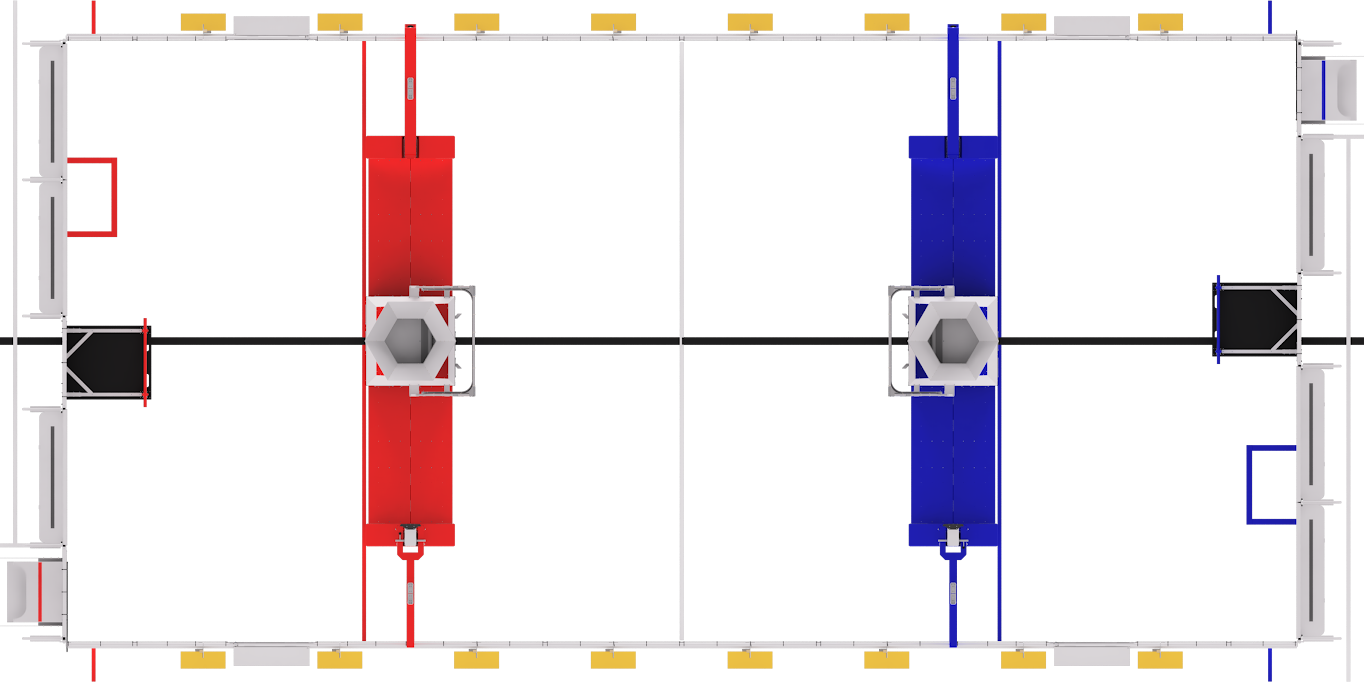
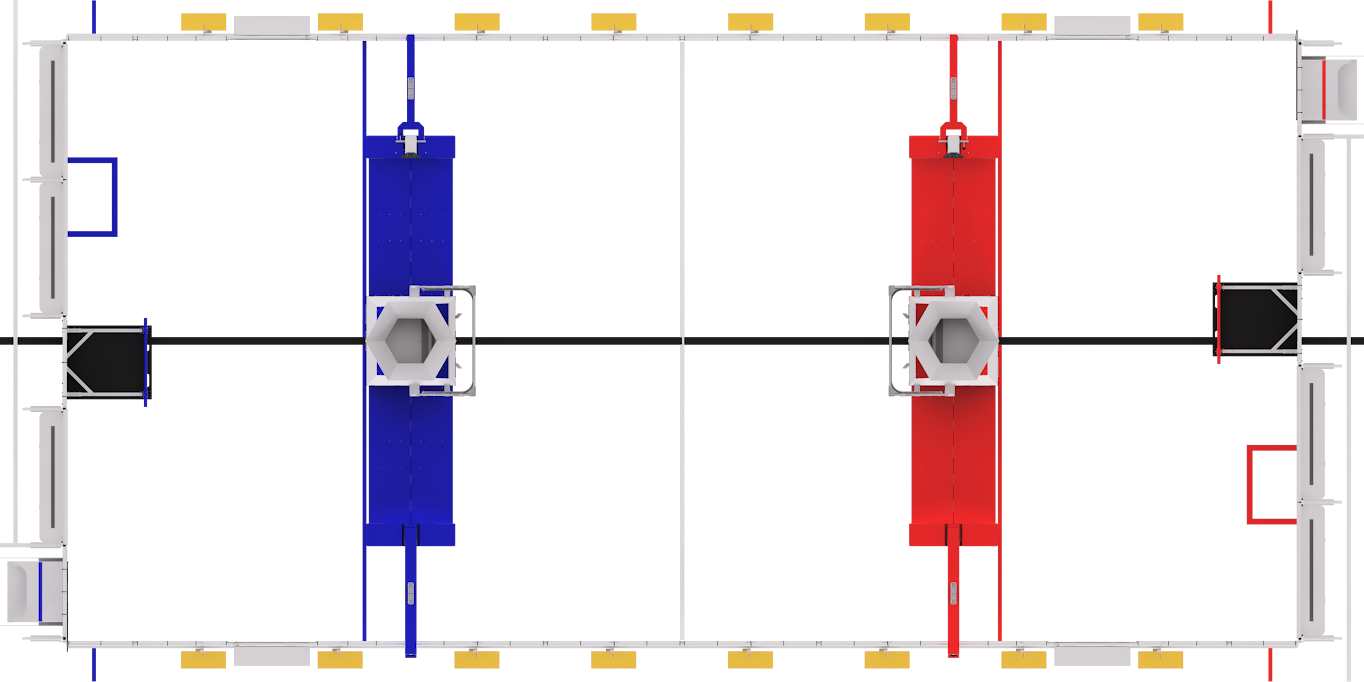
working homography matrix calculation

diff --git a/main.py b/main.py
@@ -8,7 +8,7 @@ try:
     from PyQt6.QtCore import Qt, QPoint
     from yt_dlp import YoutubeDL
     import pytesseract
-    from numpy import ndarray
+    import numpy as np
     from pathlib import Path
     import tkinter as tk
     from tkinter import filedialog
@@ -37,12 +37,14 @@ ydl_opts = {
     'logger': None
 }
 
-homography_points = []
+homography_stream_points = []
+homography_field_points = []
 homography_matrix = None
-homography_mask = None
-current_status = "yt" #can be "yt", "homography", "start"
+current_status = "yt" #can be "yt", "homography points", "calculate homography", "start"
 
 field_image = None
+field_image_w = 0
+field_image_h = 0
 
 def load_model():
     global model_loaded, model_path, model
@@ -58,7 +60,7 @@ load_model()
 
 
 def load_yt():
-    global video_direct_url, cap, yt_vid_name, yt_is_live, yt_loaded, yt_width, yt_height, field_image
+    global video_direct_url, cap, yt_vid_name, yt_is_live, yt_loaded, yt_width, yt_height, field_image, field_image_w, field_image_h
     try:
         with YoutubeDL(ydl_opts) as ydl:
             info_dict = ydl.extract_info(yt_url, download=False)
@@ -75,7 +77,12 @@ def load_yt():
             else:
                 video_direct_url = info_dict['formats'][0]['url']
 
-            field_image = cv2.imread(f"{int(info_dict['upload_date'][:4])}.png")
+            release_year = int(info_dict['upload_date'][:4])
+            if release_year >= 2024:
+                field_image = cv2.imread(f"{release_year}.png")
+            else:
+                field_image = cv2.imread('2026.png')
+            field_image_h, field_image_w = field_image.shape[:2]
             if field_image is None:
                 print(f"Error: Could not open {int(info_dict['upload_date'][:4])}.png")
             cap = cv2.VideoCapture(video_direct_url)
@@ -84,6 +91,7 @@ def load_yt():
                 yt_loaded = False
             else:
                 window.display_current_frame()
+                window.update_field_canvas()
                 yt_loaded = True
     except Exception as e:
         print(f'Error: {e}')
@@ -204,6 +212,7 @@ class MainWindow(QMainWindow):
         sidebar_layout.addRow(seconds_change_HLine)
         sidebar_layout.addRow(QLabel(""))
         sidebar_layout.addRow(QLabel("<b>Homography Matrix Points</b>"))
+        sidebar_layout.addRow(QLabel("Select a point on the stream and then\nthe corresponding one on the field"))
         sidebar_layout.addRow(self.homography_points_label)
 
         sidebar_layout.addItem(spacer)
@@ -215,11 +224,11 @@ class MainWindow(QMainWindow):
 
 
         #Stream Canvas Widget
-        self.image_label = QLabel("Stream Area - Add a YouTube video")
-        self.image_label.setAlignment(Qt.AlignmentFlag.AlignCenter)
+        self.stream_label = QLabel("Stream Area - Add a YouTube video")
+        self.stream_label.setAlignment(Qt.AlignmentFlag.AlignCenter)
         self.field_label = QLabel("Field - Add a YouTube video")
         self.field_label.setAlignment(Qt.AlignmentFlag.AlignCenter)
-        stream_layout.addWidget(self.image_label)
+        stream_layout.addWidget(self.stream_label)
         stream_layout.addWidget(self.field_label)
         
         #Connections
@@ -233,21 +242,27 @@ class MainWindow(QMainWindow):
         self.seconds_change_increase_button.clicked.connect(self.seconds_change_increase)
         self.frame_forward_button.clicked.connect(self.increase_frame)
         self.frame_back_button.clicked.connect(self.decrease_frame)
-        # self.start_button.connect(self.start_button_handler)
+        self.start_button.clicked.connect(self.start_button_handler)
 
         #Main Layout
         main_layout.addWidget(sidebar_widget)
         main_layout.addWidget(divider_vline)
         main_layout.addLayout(stream_layout)
 
+    def transform_point(self, x,y):
+        src_point = np.array([[x,y]], dtype=np.float32)
+        src_point_reshaped = src_point.reshape(-1,1,2)
+        dst_point_reshaped = cv2.perspectiveTransform(src_point_reshaped, homography_matrix)
+        return dst_point_reshaped.reshape(-1,2)[0]
+
     def display_current_frame(self):
         global cap
         if 'cap' in globals() and cap.isOpened():
             ret, frame = cap.read()
             if ret:
-                self.current_raw_frame = frame.copy()
+                self.current_raw_frame = frame.copy()                 
                 self.update_stream_canvas()
-                self.update_field_canvas()
+
 
     def display_current_annotation(self):
         global cap
@@ -257,29 +272,39 @@ class MainWindow(QMainWindow):
                 self.current_raw_frame = model(frame.copy())[0].plot()
                 self.update_stream_canvas()
 
+    def update_stream_homography_points(self):
+        
+        for point in homography_stream_points:
+            self.current_raw_frame = cv2.circle(self.current_raw_frame, point, 4, '#FF0000')
+        self.update_stream_canvas()
+
+    def update_field_homography_points(self):
+        for point in homography_field_points:
+            self.current_raw_field = cv2.circle(self.current_raw_field, point, 4, "#FF0000")
+        self.update_field_canvas()
                 
     def update_stream_canvas(self):
         if hasattr(self, 'current_raw_frame') and self.current_raw_frame is not None:
             pixmap = cv_to_pixmap(self.current_raw_frame)
             scaled_pixmap = pixmap.scaled(
-                    self.image_label.size(),
+                    self.stream_label.size(),
                     Qt.AspectRatioMode.KeepAspectRatio,
                     Qt.TransformationMode.SmoothTransformation
                 )
-            self.image_label.setPixmap(scaled_pixmap)
-            self.labelX = self.image_label.geometry().x()
-            self.labelY = self.image_label.geometry().y()
+            self.stream_label.setPixmap(scaled_pixmap)
+            self.stream_labelX = self.stream_label.geometry().x()
+            self.stream_labelY = self.stream_label.geometry().y()
 
     def update_field_canvas(self):
-        pixmap = cv_to_pixmap(field_image)
+        pixmap = cv_to_pixmap(self.current_raw_field)
         scaled_pixmap = pixmap.scaled(
             self.field_label.size(),
             Qt.AspectRatioMode.KeepAspectRatio,
             Qt.TransformationMode.SmoothTransformation
         )
         self.field_label.setPixmap(scaled_pixmap)
-        self.fieldX = self.field_label.geometry().x()
-        self.fieldY = self.field_label.geometry().y()
+        self.field_labelX = self.field_label.geometry().x()
+        self.field_labelY = self.field_label.geometry().y()
 
     def step_frame(self, step_amount, is_seconds = False):
         global cap
@@ -331,19 +356,34 @@ class MainWindow(QMainWindow):
             self.increase_frame()
 
     def mousePressEvent(self, event):
+        global current_status, homography_field_points, homography_stream_points
         mouseX = event.position().x()
         mouseY = event.position().y()
-        if current_status == "homography" and len(homography_points) <= 3 and self.image_label.pixmap().rect().contains(QPoint(int(mouseX), int(mouseY))):
-            adjustedX = round((mouseX-self.labelX)*(yt_width / self.image_label.pixmap().size().width()), 4)
-            adjustedY = round((mouseY-self.labelY)*(yt_height / self.image_label.pixmap().size().height()), 4)
-            homography_points.append((adjustedX, adjustedY))
-            self.homography_points_label.setText("")
-            for i in range(len(homography_points)):
-                if (i+1)%2 == 0:
-                    self.homography_points_label.setText(f"{self.homography_points_label.text()}({homography_points[i][0]},{homography_points[i][1]})\n")
-                else:
-                    self.homography_points_label.setText(f"{self.homography_points_label.text()}({homography_points[i][0]},{homography_points[i][1]})   ")
+        if current_status == "homography points" and len(homography_field_points) <= 3:
+            if len(homography_stream_points) <= len(homography_field_points):
+                adjustedX = mouseX-self.stream_labelX
+                adjustedY = mouseY-self.stream_labelY
+                homographyX = round(adjustedX *(yt_width / self.stream_label.pixmap().size().width()), 4)
+                homographyY = round(adjustedY * (yt_height / self.stream_label.pixmap().size().height()), 4)
 
+                if self.stream_label.pixmap().rect().contains(QPoint(int(adjustedX), int(adjustedY))):
+                    homography_stream_points.append((homographyX, homographyY))
+                    self.homography_points_label.setText(f"{self.homography_points_label.text()}({homographyX},{homographyY}) ⟶ ")
+
+            elif len(homography_stream_points) > len(homography_field_points):
+                adjustedX = mouseX-self.field_labelX
+                adjustedY = mouseY-self.field_labelY
+                homographyX = round(adjustedX * (field_image_w / self.field_label.pixmap().size().width()), 4)
+                homographyY = round(adjustedY * (field_image_h / self.field_label.pixmap().size().height()), 4)
+
+                if self.field_label.pixmap().rect().contains(QPoint(int(adjustedX), int(adjustedY))):
+                    homography_field_points.append((homographyX, homographyY))
+                    self.homography_points_label.setText(f"{self.homography_points_label.text()}({homographyX},{homographyY})\n")
+
+            if len(homography_stream_points) == 4 and len(homography_field_points) == 4:
+                self.start_button.setEnabled(True)
+                self.start_button.setText("Calculate Homography")
+                current_status = "calculate homography"
         return super().mousePressEvent(event)
 
     
@@ -366,8 +406,8 @@ class MainWindow(QMainWindow):
         global yt_url, current_status
         if self.yt_link_input.text() != "":
             yt_url = self.yt_link_input.text()
-            self.image_label.setText("Loading...")
-            self.image_label.repaint()
+            self.stream_label.setText("Loading...")
+            self.stream_label.repaint()
             load_yt()
 
             #Enable Controls
@@ -382,11 +422,16 @@ class MainWindow(QMainWindow):
                 #Clear focus on the timeedit or youtube link area
                 self.yt_link_input.clearFocus()
                 self.setFocus()
-                current_status = "homography"
-                self.image_label.setAlignment(Qt.AlignmentFlag.AlignLeft | Qt.AlignmentFlag.AlignTop)
-                self.field_label.setAlignment(Qt.AlignmentFlag.AlignLeft | Qt.AlignmentFlag.AlignBottom)
+                current_status = "homography points"
+                self.stream_label.setAlignment(Qt.AlignmentFlag.AlignLeft | Qt.AlignmentFlag.AlignTop)
+                self.field_label.setAlignment(Qt.AlignmentFlag.AlignLeft | Qt.AlignmentFlag.AlignTop)
+                # # stream_pixmap_w = self.stream_label.pixmap().size().width()
+                # # stream_pixmap_h =self.stream_label.pixmap().size().height()
+                # # field_pixmap_h = self.field_label.pixmap().size().height()
+                # # self.setMinimumSize(360+stream_pixmap_w/2, self.stream_label.pixmap().size().height()*2 + self.field_label.pixmap().size().height()*2)
+                # self.setMinimumSize(360+int(self.stream_label.pixmap().size().width()/2), int(self.stream_label.pixmap().size().height()/2) + int(self.field_label.pixmap().size().height()/2))
             else:
-                self.image_label.setText("Error Loading YT - Please try again")
+                self.stream_label.setText("Error Loading YT - Please try again")
 
     def skip_to_frame_input(self):
         global cap
@@ -404,11 +449,12 @@ class MainWindow(QMainWindow):
     def skip_seconds_back(self):
         self.step_frame(-self.seconds_change, True)
     def seconds_change_increase(self,):
-        self.seconds_change += 1
-        self.seconds_forward_button.setText(f"↻ {self.seconds_change} sec")
-        self.seconds_back_button.setText(f"↺ {self.seconds_change} sec")
+        if current_status != "yt":
+            self.seconds_change += 1
+            self.seconds_forward_button.setText(f"↻ {self.seconds_change} sec")
+            self.seconds_back_button.setText(f"↺ {self.seconds_change} sec")
     def seconds_change_decrease(self):
-        if self.seconds_change > 0:
+        if self.seconds_change > 0 and current_status != "yt":
             self.seconds_change -= 1
             self.seconds_forward_button.setText(f"↻ {self.seconds_change} sec")
             self.seconds_back_button.setText(f"↺ {self.seconds_change} sec")
@@ -417,10 +463,20 @@ class MainWindow(QMainWindow):
     def decrease_frame(self):
         self.step_frame(-1)
 
-    # def start_button_handler(self):
-        # global homography_matrix
-        # if current_status == "homography" and len(homography_points) == 4:
-            # homography_matrix, homography_mask = cv2.findHomography
+    def start_button_handler(self):
+        global homography_matrix, homography_mask
+        if current_status == "calculate homography":
+            src_points = np.array(homography_stream_points, dtype=np.float32).reshape(-1, 1, 2)
+            dst_points = np.array(homography_field_points, dtype=np.float32).reshape(-1, 1, 2)
+            homography_matrix = cv2.findHomography(
+                src_points, 
+                dst_points, 
+                method=0, 
+                ransacReprojThreshold=3.0, 
+                mask=None, maxIters=2000, 
+                confidence=0.995
+                )
+            print(homography_matrix)
 
 app = QApplication(sys.argv)
 window = MainWindow()
